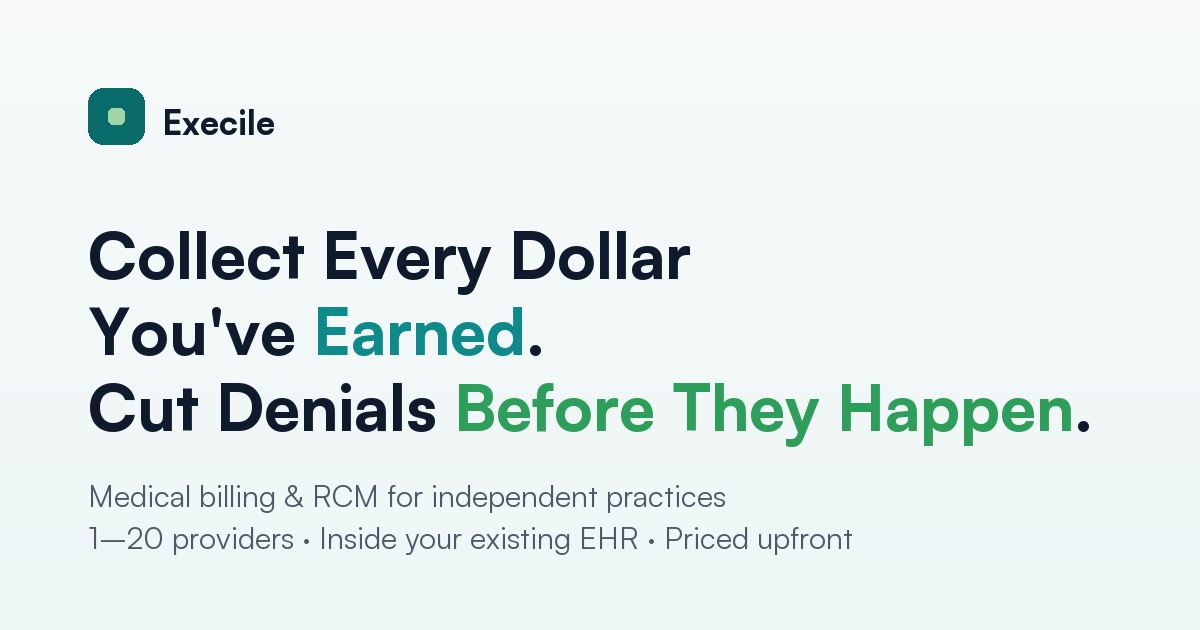
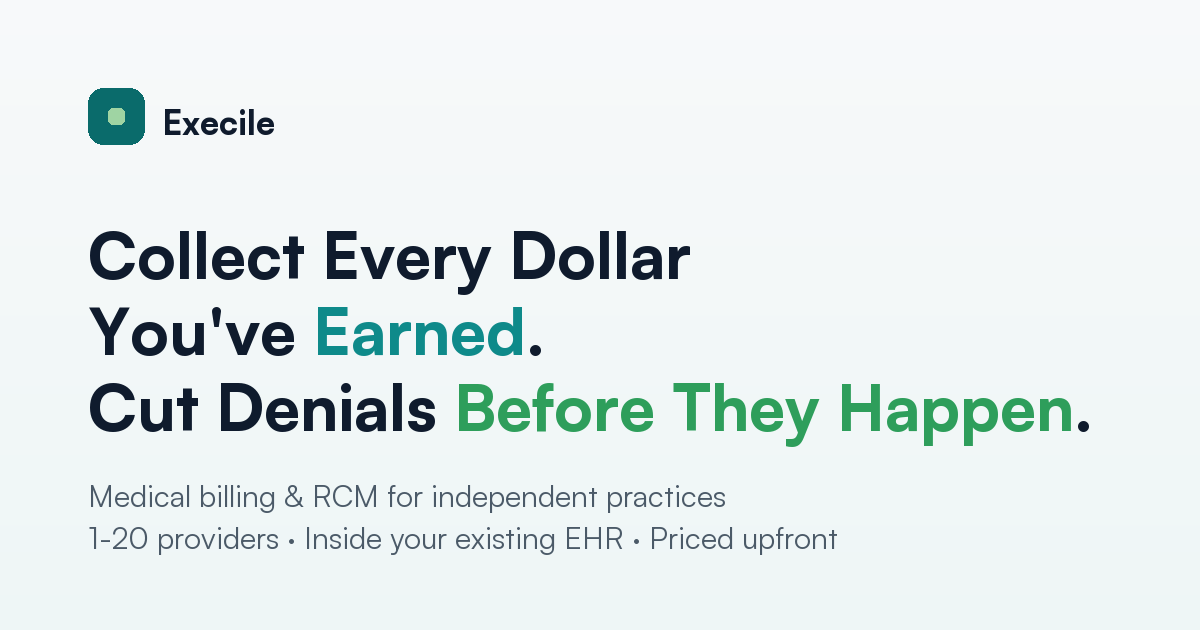
Specialties, vendor links, and a humanizer pass on the copy
Specialties: Orthopedics, OB/GYN and Dermatology fill the three
placeholder slots, chosen from CMS Part B CY2025 allowed charges, the AMA
2024 Practice Benchmark Survey's private-practice shares, CMS CERT FY2024
improper payment rates, and a survey of 13 billing vendors' featured
specialties.

Cardiology was rejected despite looking ideal: ~90% of US cardiologists
are hospital-integrated and roughly half the remainder are PE-owned, so
the vendors featuring it sell to hospital service lines rather than to
1-20 provider independents. It would have drawn traffic Execile cannot
serve. Emergency medicine, anaesthesiology, hospital radiology and
pathology are out for the same facility-billing reason.

The research also caught a copy trap: the Fit section disqualified
practices needing "hospital or facility (UB-04) billing", which would
make independent ortho and OB groups self-select out -- their
professional fee is CMS-1500 whatever the setting; only the facility's
own claim is UB-04. Reworded to name the facility's claim specifically.

Systems: each platform now links to its own site, opening in a new tab
with rel=noopener noreferrer. Seven of eight verified in-browser as US
corporate sites; officeally.com refuses connections from this
environment, so its URL is unverified. Kareo is now Tebra (kareo.com
301s), so the pill reads "Tebra (formerly Kareo)".

Humanizer pass on messages.json: six prose em dashes removed, mostly
[…]

Changed region(s): [[0.0925, 0.8143, 0.7092, 0.8746]]

diff --git a/src/sections/Systems.tsx b/src/sections/Systems.tsx
@@ -1,19 +1,25 @@
 import * as stylex from '@stylexjs/stylex'
 
 import { Heading } from '../base/Heading'
+import { Link } from '../base/Link'
 import { List, ListItem } from '../base/List'
 import { Prose } from '../base/Prose'
 import { Section } from '../base/Section'
 import { Stack } from '../base/Stack'
-import { Text } from '../base/Text'
 import { m } from '../messages'
-import { color, radius, space, text } from '../styles/tokens.stylex'
+import { color, motion, radius, space, text } from '../styles/tokens.stylex'
 
 const HEADING_ID = 'systems-h'
 
 const styles = stylex.create({
   pill: {
-    backgroundColor: color.surfaceAccent,
+    backgroundColor: { default: color.surfaceAccent, ':hover': color.borderAccent },
+    color: color.textLink,
+    display: 'inline-block',
+    textDecoration: 'none',
+    transitionDuration: motion.fast,
+    transitionProperty: 'background-color',
+    transitionTimingFunction: motion.ease,
     borderRadius: radius.lg,
     fontSize: text.md,
     fontWeight: text.weightMedium,
@@ -31,10 +37,13 @@ export function Systems() {
         </Heading>
         <List direction="row" wrap gap="s10" label={m.systems.label}>
           {m.systems.items.map((item) => (
-            <ListItem key={item} style={styles.pill}>
-              <Text size="md" tone="link">
-                {item}
-              </Text>
+            <ListItem key={item.name}>
+              {/* Outbound to the vendor's own site so a visitor can check who
+                  each platform actually is. external adds target=_blank plus
+                  the rel pair, which also keeps them on this page. */}
+              <Link href={item.href} variant="plain" external style={styles.pill}>
+                {item.name}
+              </Link>
             </ListItem>
           ))}
         </List>

diff --git a/scripts/og-image.py b/scripts/og-image.py
@@ -84,7 +84,7 @@ for line in LINES:
     y += round(size * 1.18)
 
 d.text((PAD, 476), "Medical billing & RCM for independent practices", font=body, fill=INK_600)
-d.text((PAD, 518), "1–20 providers · Inside your existing EHR · Priced upfront", font=body, fill=INK_600)
+d.text((PAD, 518), "1-20 providers · Inside your existing EHR · Priced upfront", font=body, fill=INK_600)
 
 out = ROOT / "public" / "og.png"
 img.save(out, "PNG", optimize=True)
